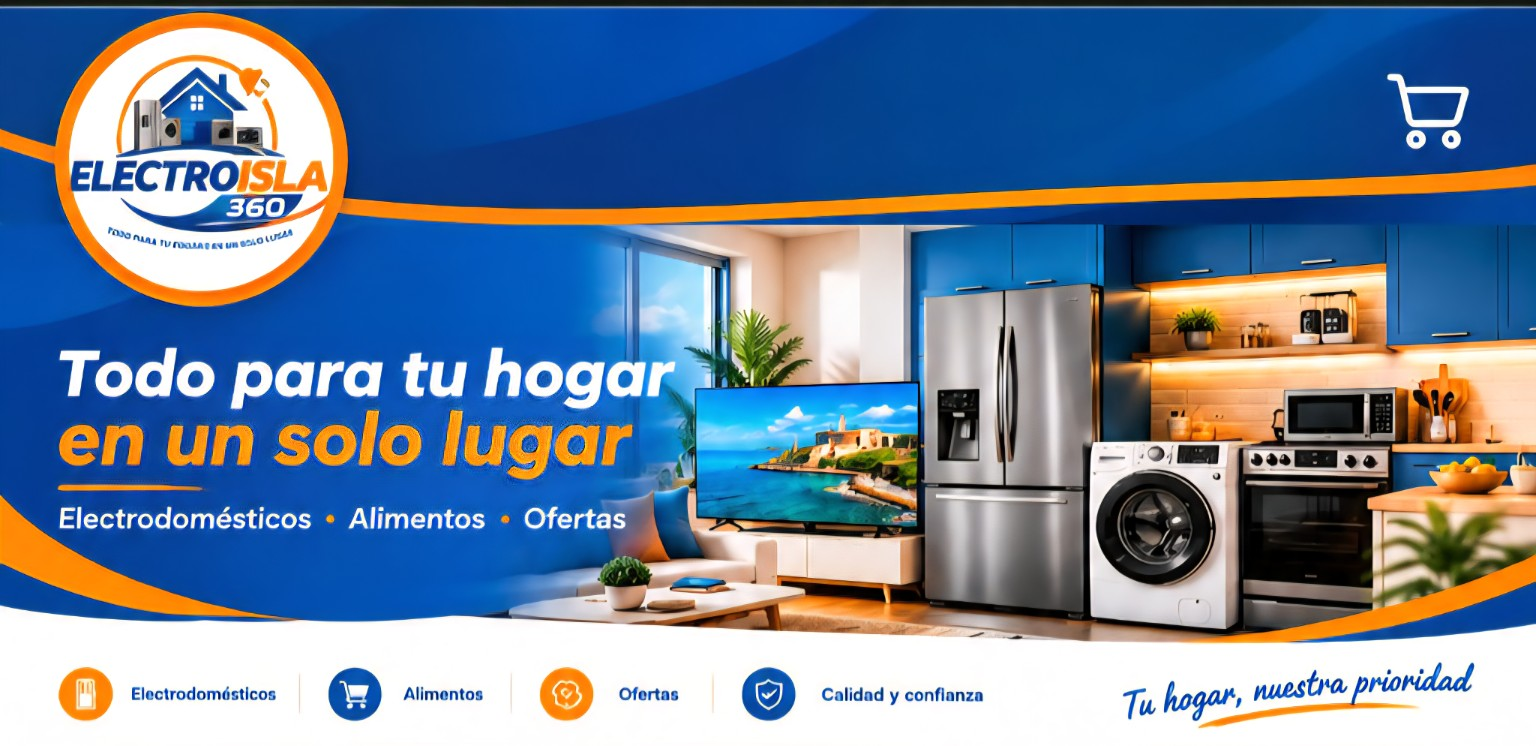
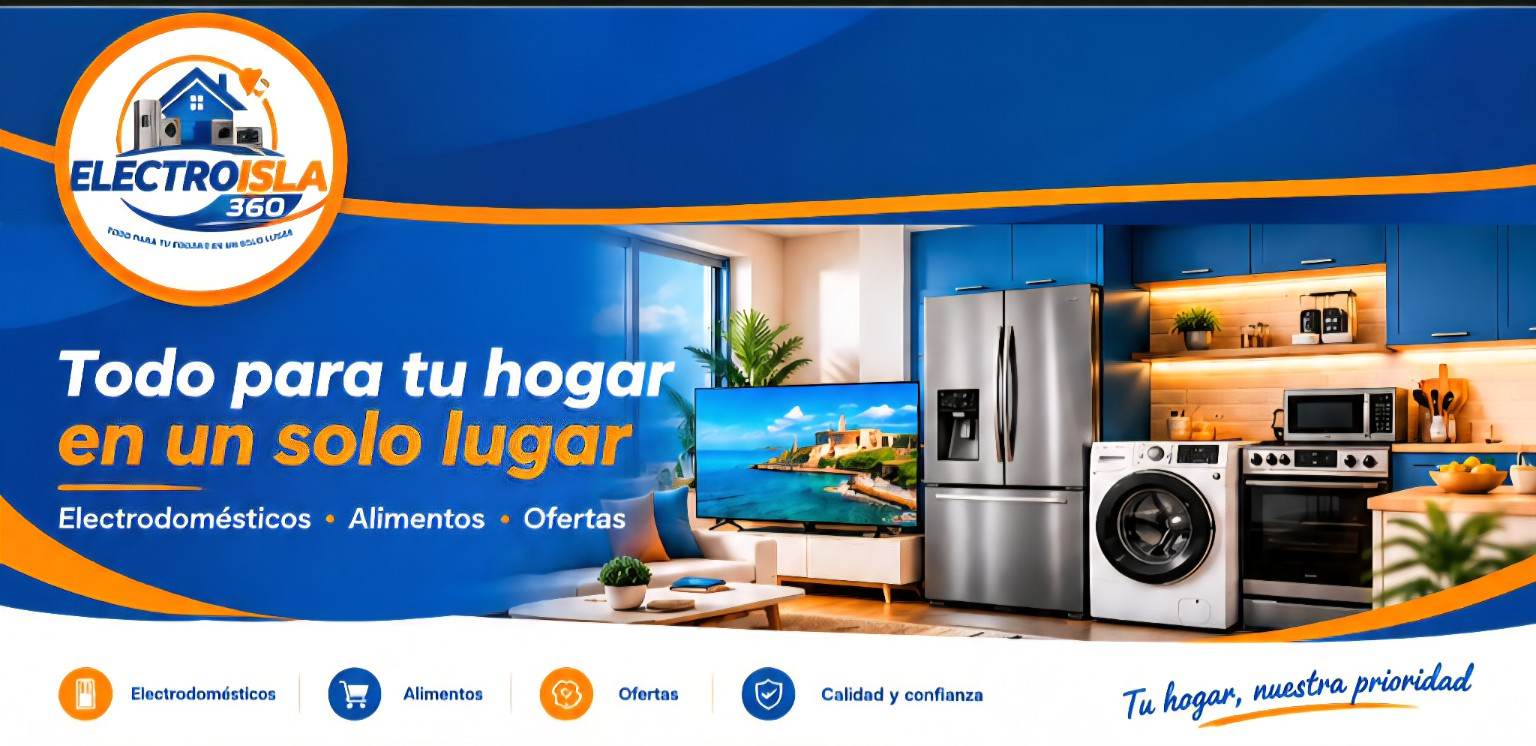
Add files via upload

diff --git a/styles.css b/styles.css
@@ -2350,3 +2350,26 @@ body.category-menu-open{
 /* v9.8.43 — Carrito y contador eliminados de la pantalla principal.
    El carrito interno de "Tu pedido" permanece intacto. */
 .reference-topbar .reference-cart{display:none!important;}
+
+/* v9.8.44 — Pantalla principal: sin carrito superior y cantidades pequeñas, limpias y centradas. */
+.reference-topbar .reference-cart,
+.shop-topbar .cart-btn{
+  display:none!important;
+}
+
+.add-circle.has-qty{
+  display:grid!important;
+  place-items:center!important;
+  text-align:center!important;
+  font-size:14px!important;
+  font-weight:700!important;
+  line-height:1!important;
+  padding:0!important;
+}
+
+@media(max-width:700px){
+  .add-circle.has-qty{
+    font-size:14px!important;
+    line-height:1!important;
+  }
+}

diff --git a/index.html b/index.html
@@ -3,10 +3,10 @@
 <head>
   <meta charset="utf-8">
   <meta name="viewport" content="width=device-width, initial-scale=1">
-  <meta name="electroisla-version" content="9.8.31-pedido">
+  <meta name="electroisla-version" content="9.8.44">
   <title>ElectroIsla | Alimentos y Electrodomésticos</title>
   <meta name="description" content="ElectroIsla: alimentos y electrodomésticos. Compra y solicita tu pedido por WhatsApp.">
-  <link rel="stylesheet" href="styles.css?v=9.8.31-pedido">
+  <link rel="stylesheet" href="styles.css?v=9.8.44">
 </head>
 <body>
 <header class="reference-topbar shop-topbar" aria-label="ElectroIsla 360">
